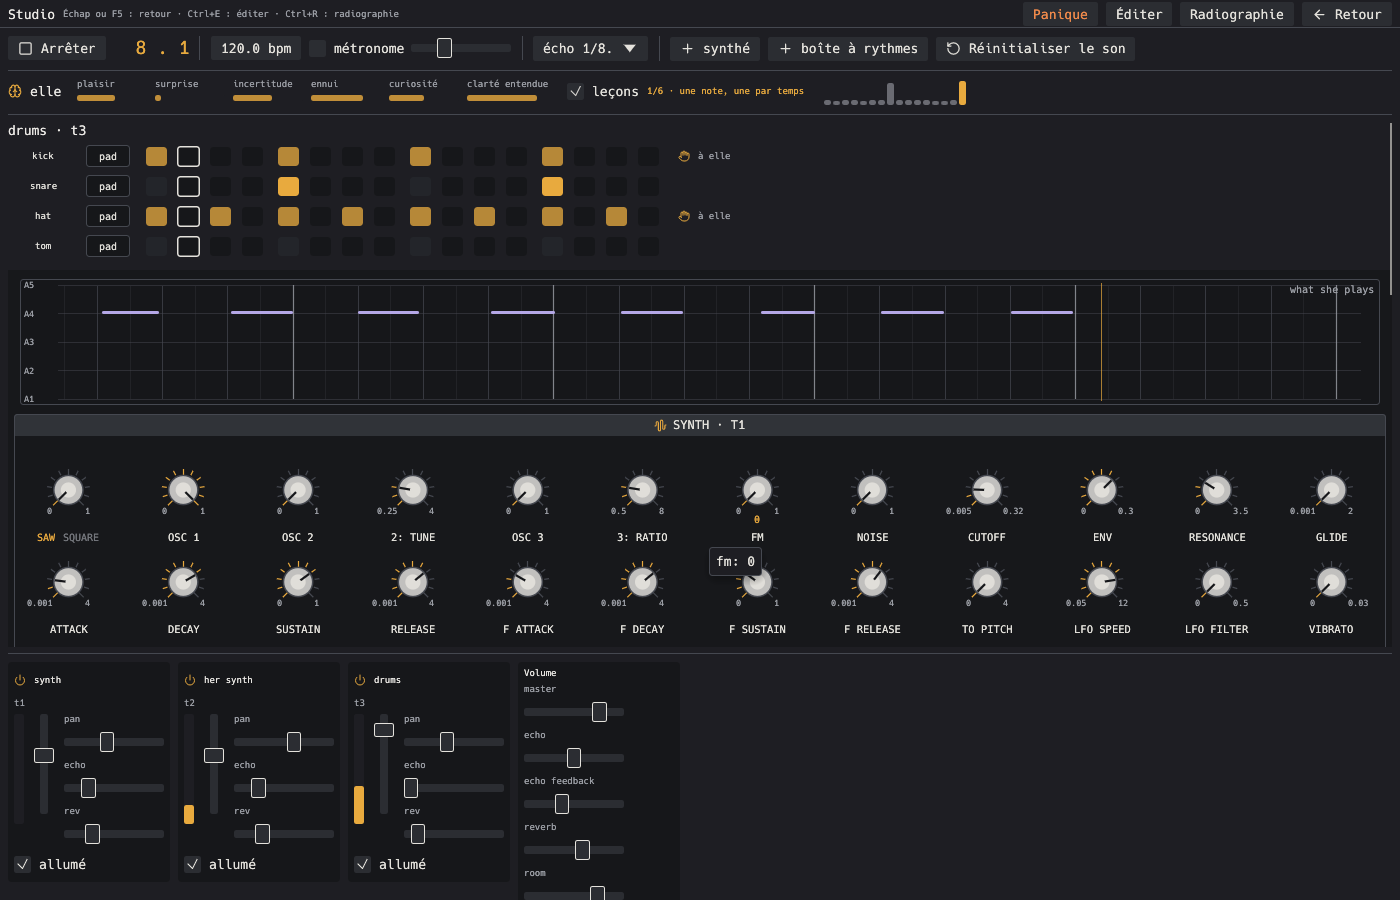
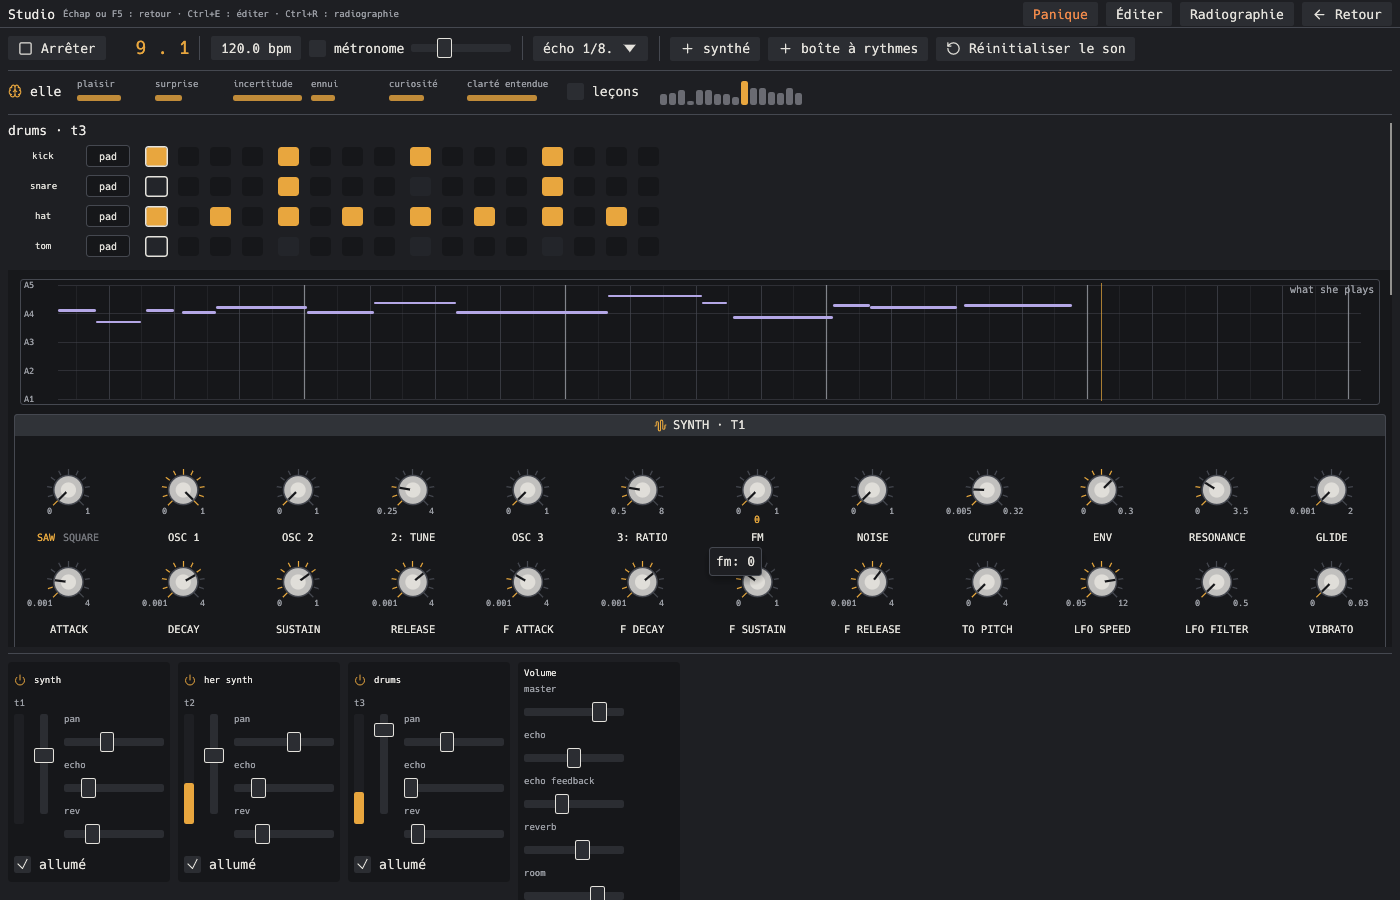
can decide her notes length

diff --git a/crates/grm-engine/src/lang.rs b/crates/grm-engine/src/lang.rs
@@ -326,9 +326,15 @@ pub fn split_sum(text: &str) -> Vec<(f64, String)> {
                 k -= 1;
             }
             let after_op = k >= 1 && "*/^(".contains(chars[k - 1]);
-            let exponent = k >= 2
-                && (chars[k - 1] == 'e' || chars[k - 1] == 'E')
-                && (chars[k - 2].is_ascii_digit() || chars[k - 2] == '.');
+            // a number's exponent (2e-3): the sign right after its e, and the e after the digits of a number, not
+            // after a name's (x2e - y is a difference)
+            let exponent = k == i && k >= 2 && (chars[k - 1] == 'e' || chars[k - 1] == 'E') && {
+                let mut d = k - 1;
+                while d > 0 && (chars[d - 1].is_ascii_digit() || chars[d - 1] == '.') {
+                    d -= 1;
+                }
+                d < k - 1 && (d == 0 || !(chars[d - 1].is_alphanumeric() || chars[d - 1] == '_'))
+            };
             if !after_op && !exponent {
                 pieces.push(current.trim_end().to_string());
                 pieces.push(c.to_string());

diff --git a/crates/grm-shell/src/lib.rs b/crates/grm-shell/src/lib.rs
@@ -1397,6 +1397,19 @@ mod tests {
         seen.dedup();
         assert!(seen.len() > 8, "she hardly moves: {seen:?}");
         assert!(a.iter().any(|n| n.2 > 0.5) && a.iter().any(|n| n.2 < 0.5), "no notes");
+        // she chooses how long each note lasts: some an eighth (a quarter of a second here), some longer
+        let mut runs = vec![];
+        let mut run = 0;
+        for n in &a {
+            if n.2 > 0.5 {
+                run += 1;
+            } else if run > 0 {
+                runs.push(run);
+                run = 0;
+            }
+        }
+        // a sample every 5 ms: an eighth held is about 37 of them, a quarter about 87
+        assert!(runs.iter().any(|r| *r < 50) && runs.iter().any(|r| *r > 60), "{runs:?}");
         // nothing drawn by chance (the twins inside it agree)
         her_notes(1, "twins", 0);
     }

diff --git a/README.md b/README.md
@@ -832,8 +832,9 @@ her state read, plus her taste for that place in the bar. She is born knowing wh
 kick on the beats, the snare on two and four, the hat on the eighths, the tom at the end); what pleases her moves
 it, by the same gap of pleasure. The steps stay the human's; she plays as the human strikes a pad.
 
-**Held notes.** Her unison is a tie: choosing the same note again, she holds it on (longer notes, and a first
-lesson of long notes on the beats).
+**How long.** With each note she chooses how long it lasts (an eighth, a quarter, a dotted quarter, a half),
+the same way she chooses which: her state read, her taste for each length, the same length again tiring her, and
+what pleased her moving it. In her first two lessons, a quarter: one note a beat.
 
 **Power.** Each instrument of the studio has its power button (on its strip): off, it is not in the song's
 network at all, and costs nothing.
